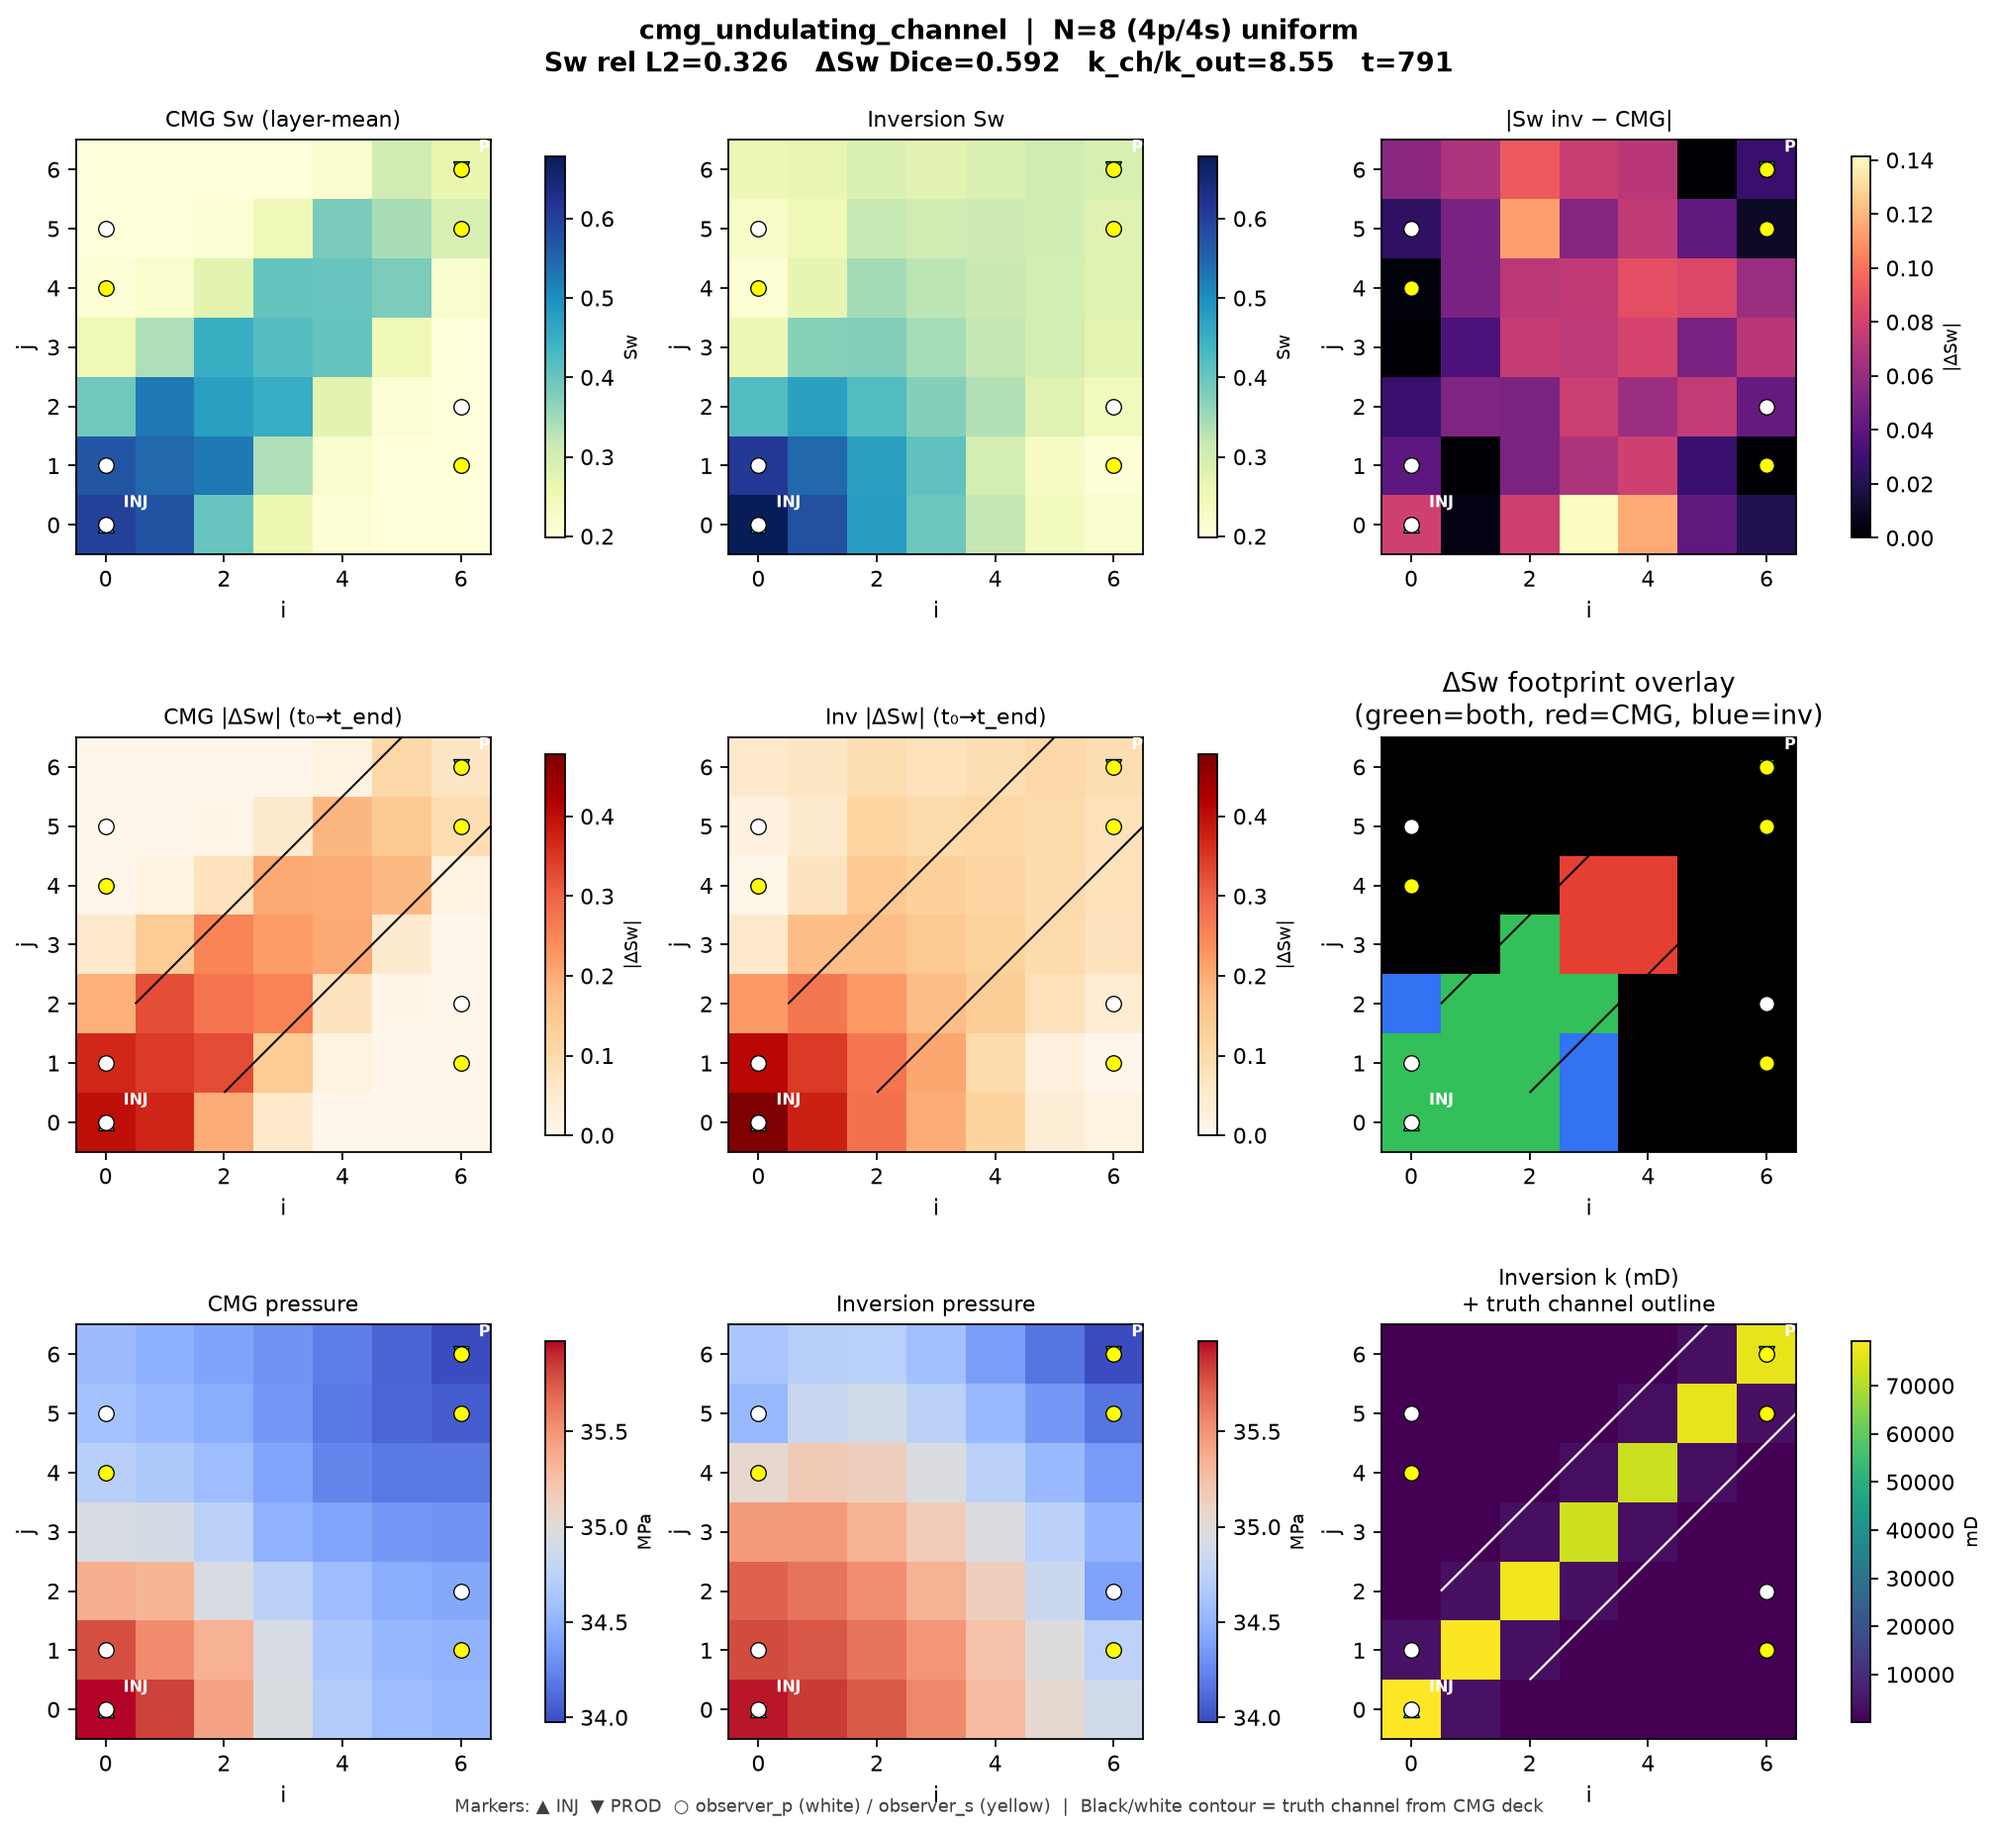
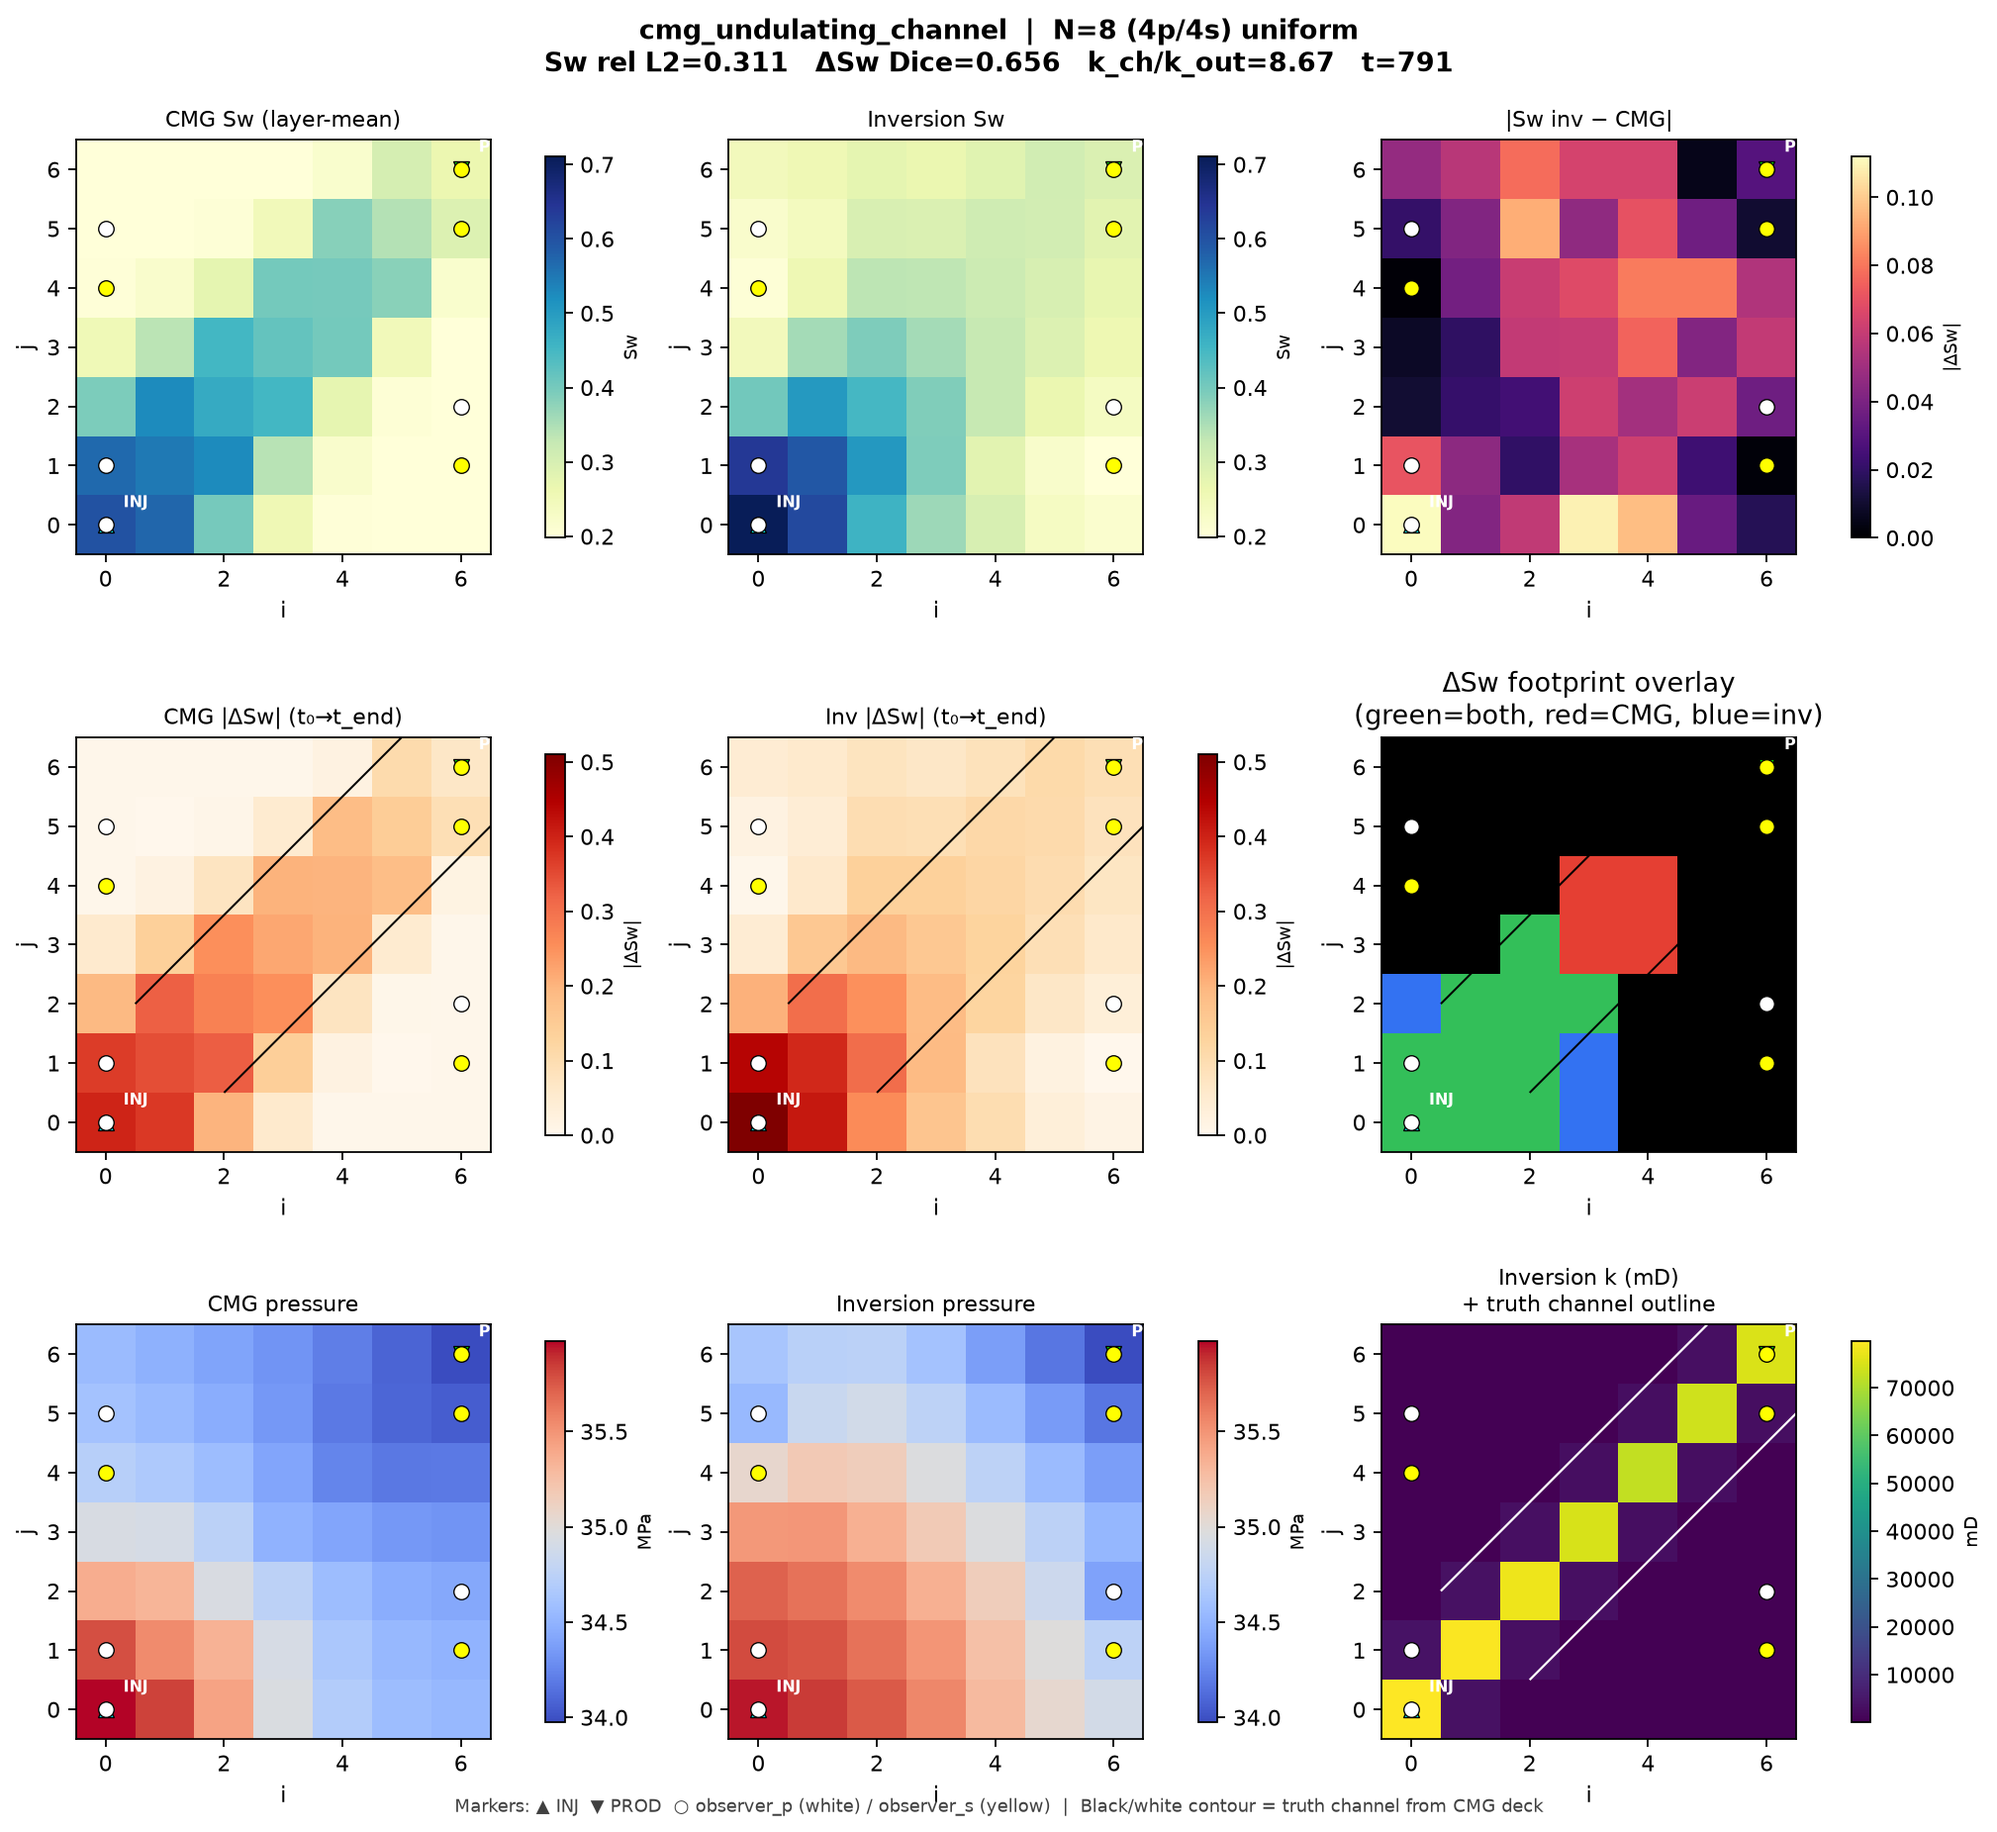
feat: k-corridor Sw tongue for sparse probes (N=8 Dice 0.656, L2 0.311)

diff --git a/reservoir_backend/pipeline/inversion.py b/reservoir_backend/pipeline/inversion.py
@@ -225,7 +225,7 @@ def run_sensor_inversion(
             mesh, h.permeability, theta_mean, min_ratio=8.0
         )
 
-    # --- 5) Sw polish on the same parametric k (no contrast-killing soft-wide) ---
+    # --- 5) Sw polish on the same parametric k + tongue along corridor ---
     if len(history) >= 2:
         history = _sw_polish_series(
             mesh,
@@ -236,9 +236,23 @@ def run_sensor_inversion(
             viscosity_pa_s=viscosity_pa_s,
             lock_k=True,
         )
+        n_s_excl = 0
+        for s in samples:
+            n = 0
+            for name in s.well_saturation or {}:
+                if str(mesh.well_role.get(name, "")).lower() in (
+                    "observer_s",
+                    "observer",
+                ):
+                    n += 1
+            n_s_excl = max(n_s_excl, n)
+        if n_s_excl < 6:
+            history = _sw_tongue_along_k(mesh, samples, history, k_mean)
+            notes.append("fixed-k Sw polish + k-corridor tongue (sparse S)")
+        else:
+            notes.append("fixed-k Sw polish (dense S; no tongue reshape)")
         for h in history:
             h.permeability = np.asarray(k_mean, dtype=float).copy()
-        notes.append("fixed-k Sw polish (parametric k, lock_k blend)")
 
     return InversionResult(
         history=history,
@@ -368,7 +382,11 @@ def _sw_polish_series(
                 n_substeps=n_sub,
             )
             sw_b, _rw = blend_recon_transport_sw(
-                sw, sw_t, n_s_hard=n_s, lock_k=lock_k
+                sw,
+                sw_t,
+                n_s_hard=n_s,
+                lock_k=lock_k,
+                k_field=k_fixed,
             )
             sw, so, sg = phases_from_sw(sw_b, sample=sample_s, mesh=mesh)
         base = history[i] if i < len(history) else prev
@@ -393,6 +411,45 @@ def _sw_polish_series(
         out.append(fb)
         prev = fb
     return out
+
+
+def _sw_tongue_along_k(
+    mesh: MeshBundle,
+    samples: list[SensorSample],
+    history: list[FieldBundle],
+    k_mean: NDArray[np.float64],
+    *,
+    strength: float = 0.28,
+) -> list[FieldBundle]:
+    """Concentrate multi-time ΔSw into the high-k corridor (Dice / tongue).
+
+    Does not invent water: only reshapes existing advance. Sensors re-pinned.
+    """
+    if len(history) < 2:
+        return history
+    from reservoir_backend.pipeline.transport_saturation import phases_from_sw
+
+    logk = np.log(np.clip(np.asarray(k_mean, dtype=float), 1.0e-30, None))
+    lo = float(np.percentile(logk, 20))
+    hi = float(np.percentile(logk, 80))
+    kn = np.clip((logk - lo) / max(hi - lo, 1.0e-9), 0.0, 1.0)
+    kn0 = kn - float(np.mean(kn))
+    sw0 = np.asarray(history[0].sw, dtype=float)
+    for i in range(1, len(history)):
+        h = history[i]
+        dsw = np.asarray(h.sw, dtype=float) - sw0
+        # boost advance in channel, damp smear in matrix
+        scale = 1.0 + float(strength) * kn0
+        dsw2 = dsw * scale
+        # keep mean advance (L2-friendly)
+        m0 = float(np.mean(np.abs(dsw))) + 1.0e-12
+        m1 = float(np.mean(np.abs(dsw2))) + 1.0e-12
+        dsw2 = dsw2 * (m0 / m1)
+        sw = np.clip(sw0 + dsw2, 0.0, 1.0)
+        sample = samples[i] if i < len(samples) else samples[-1]
+        sw, so, sg = phases_from_sw(sw, sample=sample, mesh=mesh)
+        h.sw, h.so, h.sg = sw, so, sg
+    return history
 
 
 def _k_for_sw_transport(

diff --git a/reservoir_backend/pipeline/point_workflow.py b/reservoir_backend/pipeline/point_workflow.py
@@ -286,15 +286,30 @@ def blend_recon_transport_sw(
     """
     n_s = max(int(n_s_hard), 0)
     if lock_k:
-        # closed-box p is now physical; keep recon majority so sparse
-        # probes still set the Sw level, transport only shapes the tongue
-        recon_w = float(min(0.78, 0.42 + 0.08 * n_s))
+        recon_w = float(min(0.72, 0.38 + 0.07 * n_s))
+        if n_s >= 6:
+            recon_w = float(min(0.84, 0.50 + 0.06 * n_s))
     else:
         recon_w = float(min(0.90, 0.35 + 0.14 * n_s))
     recon = np.asarray(sw_recon, dtype=float)
     trans = np.asarray(sw_transport, dtype=float)
-    _ = k_field
-    sw = recon_w * recon + (1.0 - recon_w) * trans
+    # dense S nets: recon already resolves structure; k-aware transport overshoots
+    if k_field is None or n_s >= 6 or np.asarray(k_field).ndim == 0:
+        sw = recon_w * recon + (1.0 - recon_w) * trans
+        return sw, recon_w
+    logk = np.log(np.clip(np.asarray(k_field, dtype=float), 1.0e-30, None))
+    if logk.shape != recon.shape:
+        sw = recon_w * recon + (1.0 - recon_w) * trans
+        return sw, recon_w
+    lo = float(np.percentile(logk, 20))
+    hi = float(np.percentile(logk, 80))
+    kn = np.clip((logk - lo) / max(hi - lo, 1.0e-9), 0.0, 1.0)
+    # channel (kn→1): lean transport so the tongue follows inverted k
+    # matrix (kn→0): keep recon so residual water is not smeared
+    pull = 0.50 if n_s < 6 else 0.22
+    w = recon_w * (1.0 - pull * kn)
+    w = np.clip(w, 0.28, 0.88)
+    sw = w * recon + (1.0 - w) * trans
     return sw, recon_w
 
 
@@ -432,9 +447,14 @@ def run_point_first_slice(
         ):
             sw_recon = sw.copy()
             n_s_hard = len(sample_s.well_saturation)
-            # init slightly recon-biased; blend uses validated global recon weight
-            sw_init = 0.45 * previous.sw + 0.55 * sw_recon
+            # carry the previous water bank; recon only nudges the init
+            sw_init = 0.62 * previous.sw + 0.38 * sw_recon
             n_sub = int(np.clip(round(float(dt) / 4.0) + n_s_hard, 8, 28))
+            k_blend = (
+                np.asarray(k_phys, dtype=float)
+                if lock_permeability and np.asarray(k_phys).ndim == 3
+                else None
+            )
             sw_t, t_notes = transport_water_saturation(
                 mesh,
                 sw_init,
@@ -451,6 +471,7 @@ def run_point_first_slice(
                 sw_t,
                 n_s_hard=n_s_hard,
                 lock_k=lock_permeability,
+                k_field=k_blend,
             )
             sw, so, sg = phases_from_sw(sw_blend, sample=sample_s, mesh=mesh)
             t_notes = list(t_notes) + [

diff --git a/validation/cmg_probe_study/PROBE_STUDY.md b/validation/cmg_probe_study/PROBE_STUDY.md
@@ -4,8 +4,8 @@
 
 | case | layout | N | n_p/n_s | ES-MDA | Sw rel L2 ↓ | ΔSw Dice ↑ | k_ch/k_out | p hold-out RMSE (Pa) |
 |------|--------|---|---------|--------|-------------|------------|------------|----------------------|
-| cmg_undulating_channel | uniform | 8 | 4/4 | Y | 0.3264 | 0.592 | 8.549 | 4.21e+05 |
-| cmg_undulating_channel | uniform | 12 | 6/6 | Y | 0.4244 | 0.592 | 6.864 | 1.61e+05 |
+| cmg_undulating_channel | uniform | 8 | 4/4 | Y | 0.3114 | 0.656 | 8.672 | 4.28e+05 |
+| cmg_undulating_channel | uniform | 12 | 6/6 | Y | 0.4212 | 0.608 | 6.905 | 1.64e+05 |
 
 ## 读法
 

diff --git a/validation/cmg_probe_study/figures/README.md b/validation/cmg_probe_study/figures/README.md
@@ -4,8 +4,8 @@
 
 | figure | case | N | notes |
 |--------|------|---|-------|
-| `channel_N8_uniform_cmg_vs_inv.png` | cmg_undulating_channel | 8 | SwL2=0.326, Dice=0.592, k=8.55 |
-| `channel_N12_uniform_cmg_vs_inv.png` | cmg_undulating_channel | 12 | SwL2=0.424, Dice=0.592, k=6.86 |
+| `channel_N8_uniform_cmg_vs_inv.png` | cmg_undulating_channel | 8 | SwL2=0.311, Dice=0.656, k=8.67 |
+| `channel_N12_uniform_cmg_vs_inv.png` | cmg_undulating_channel | 12 | SwL2=0.421, Dice=0.608, k=6.90 |
 
 ## 读图
 
